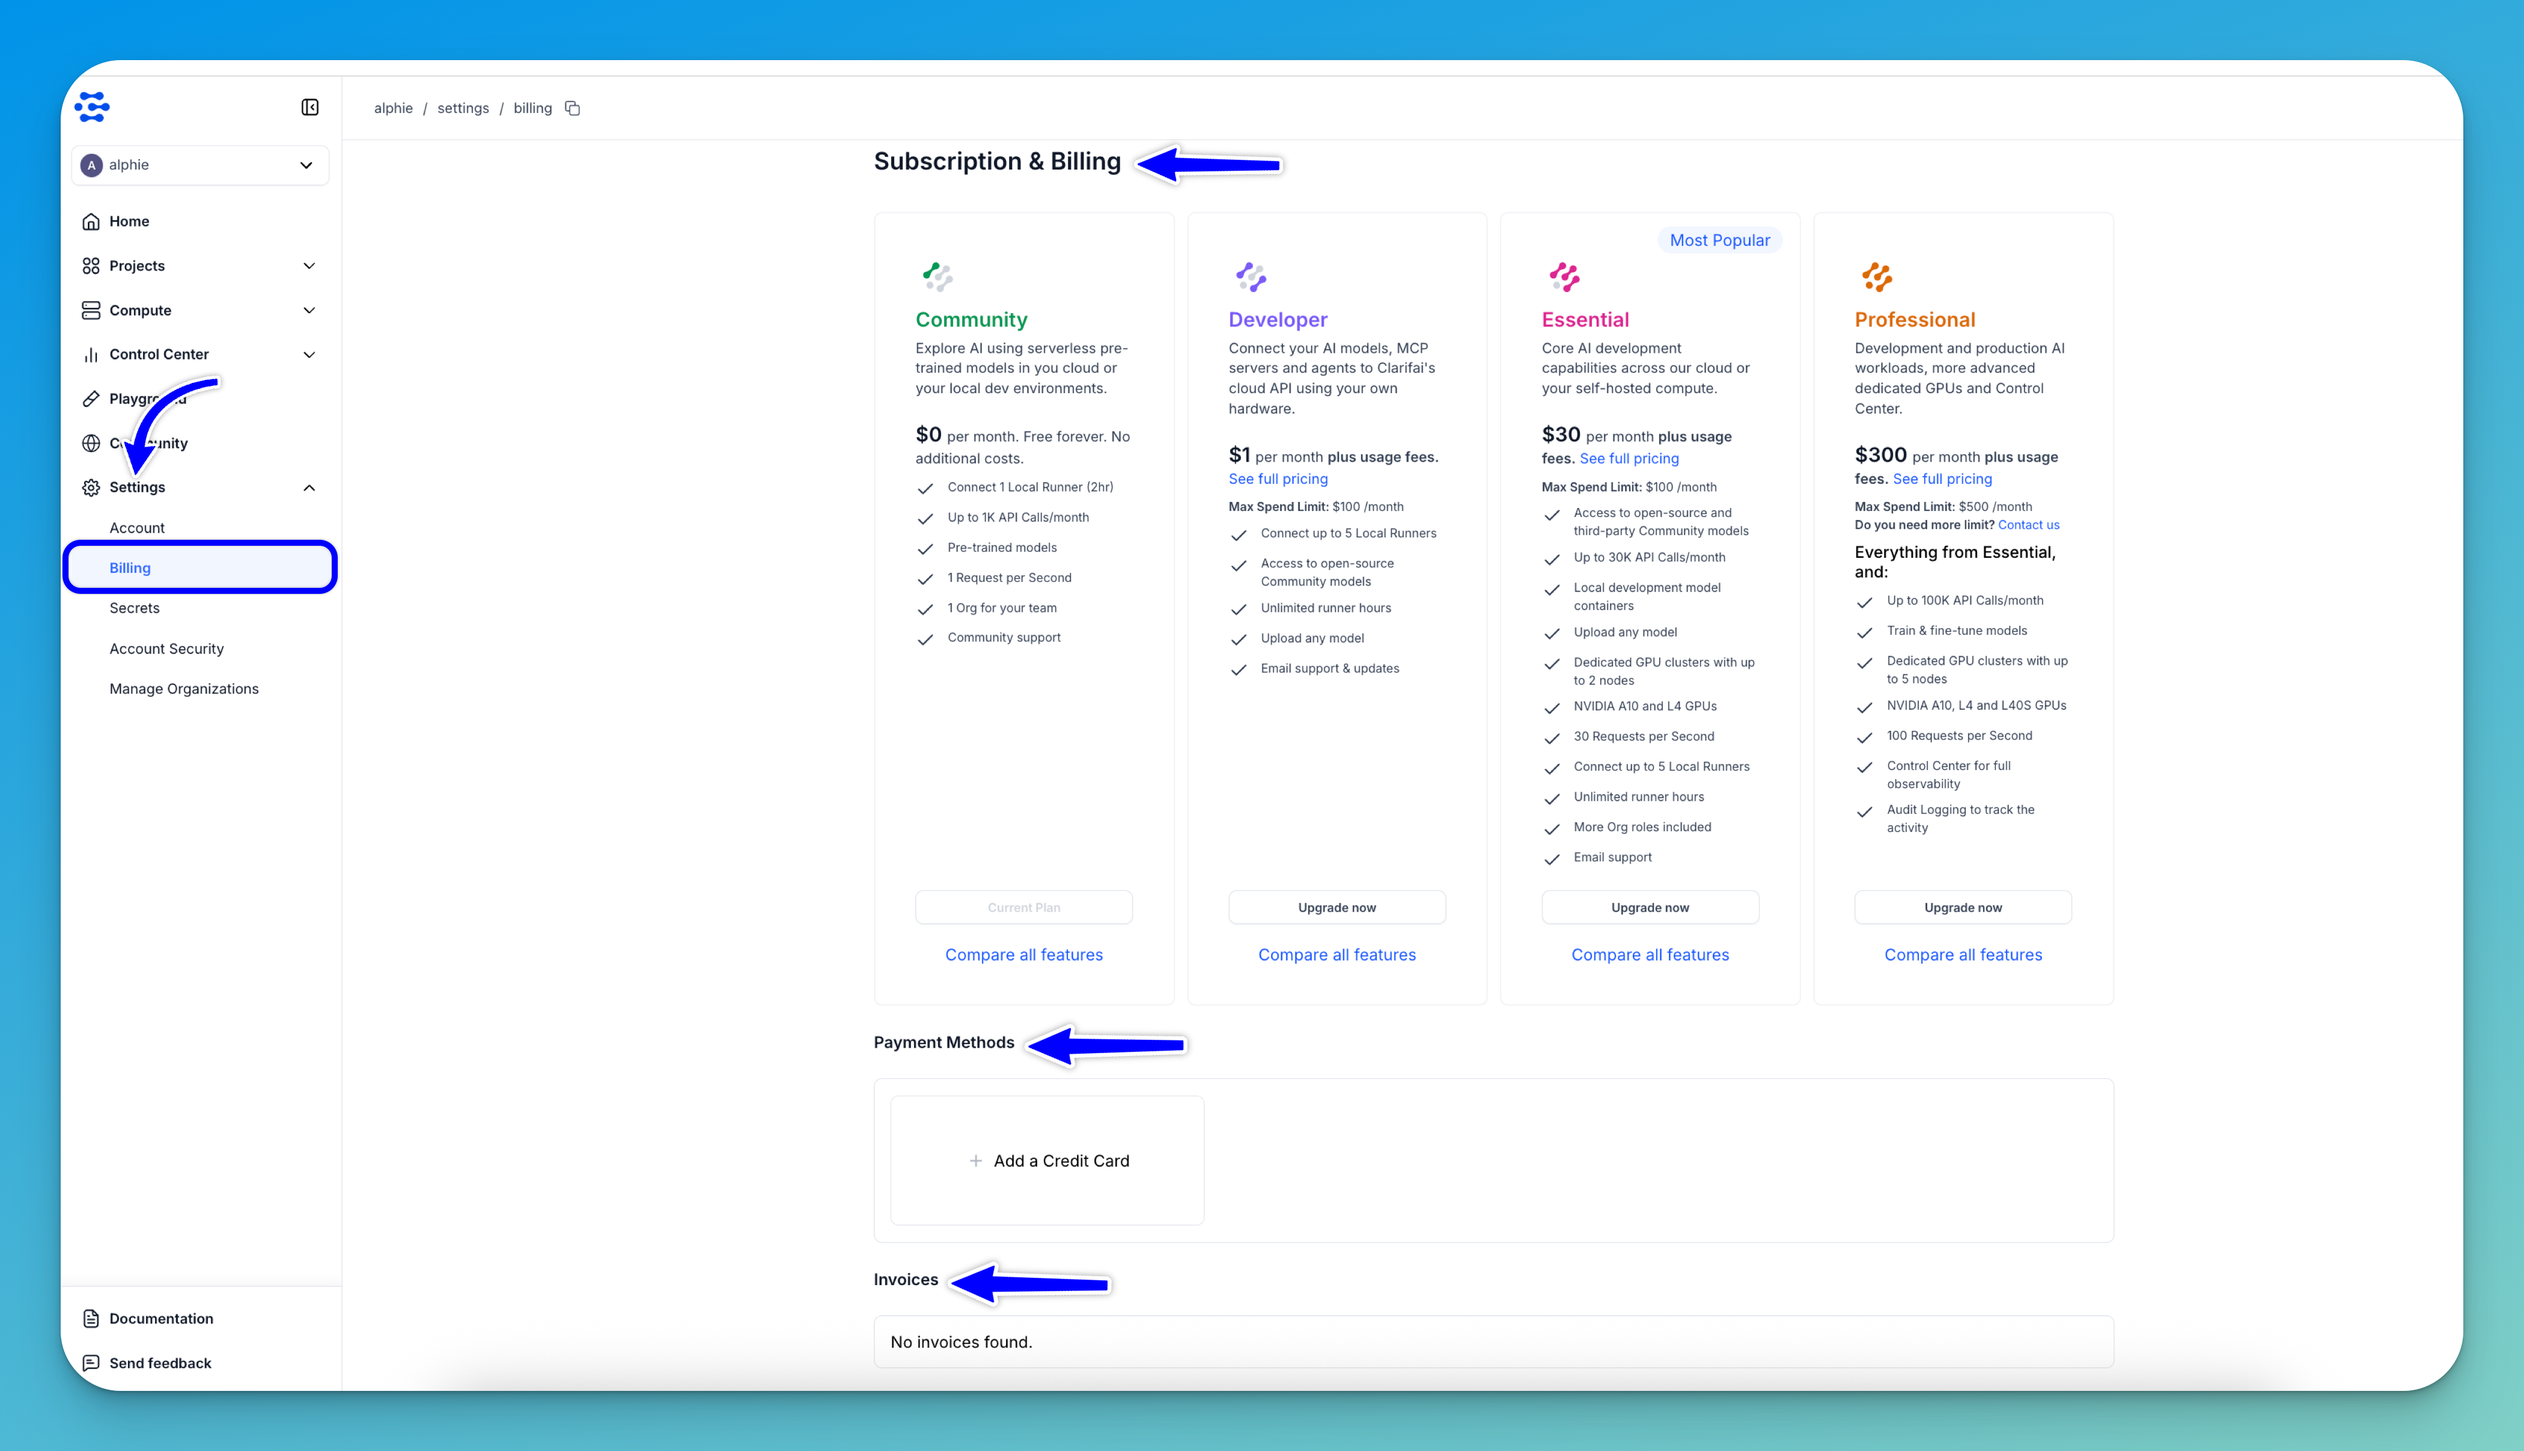
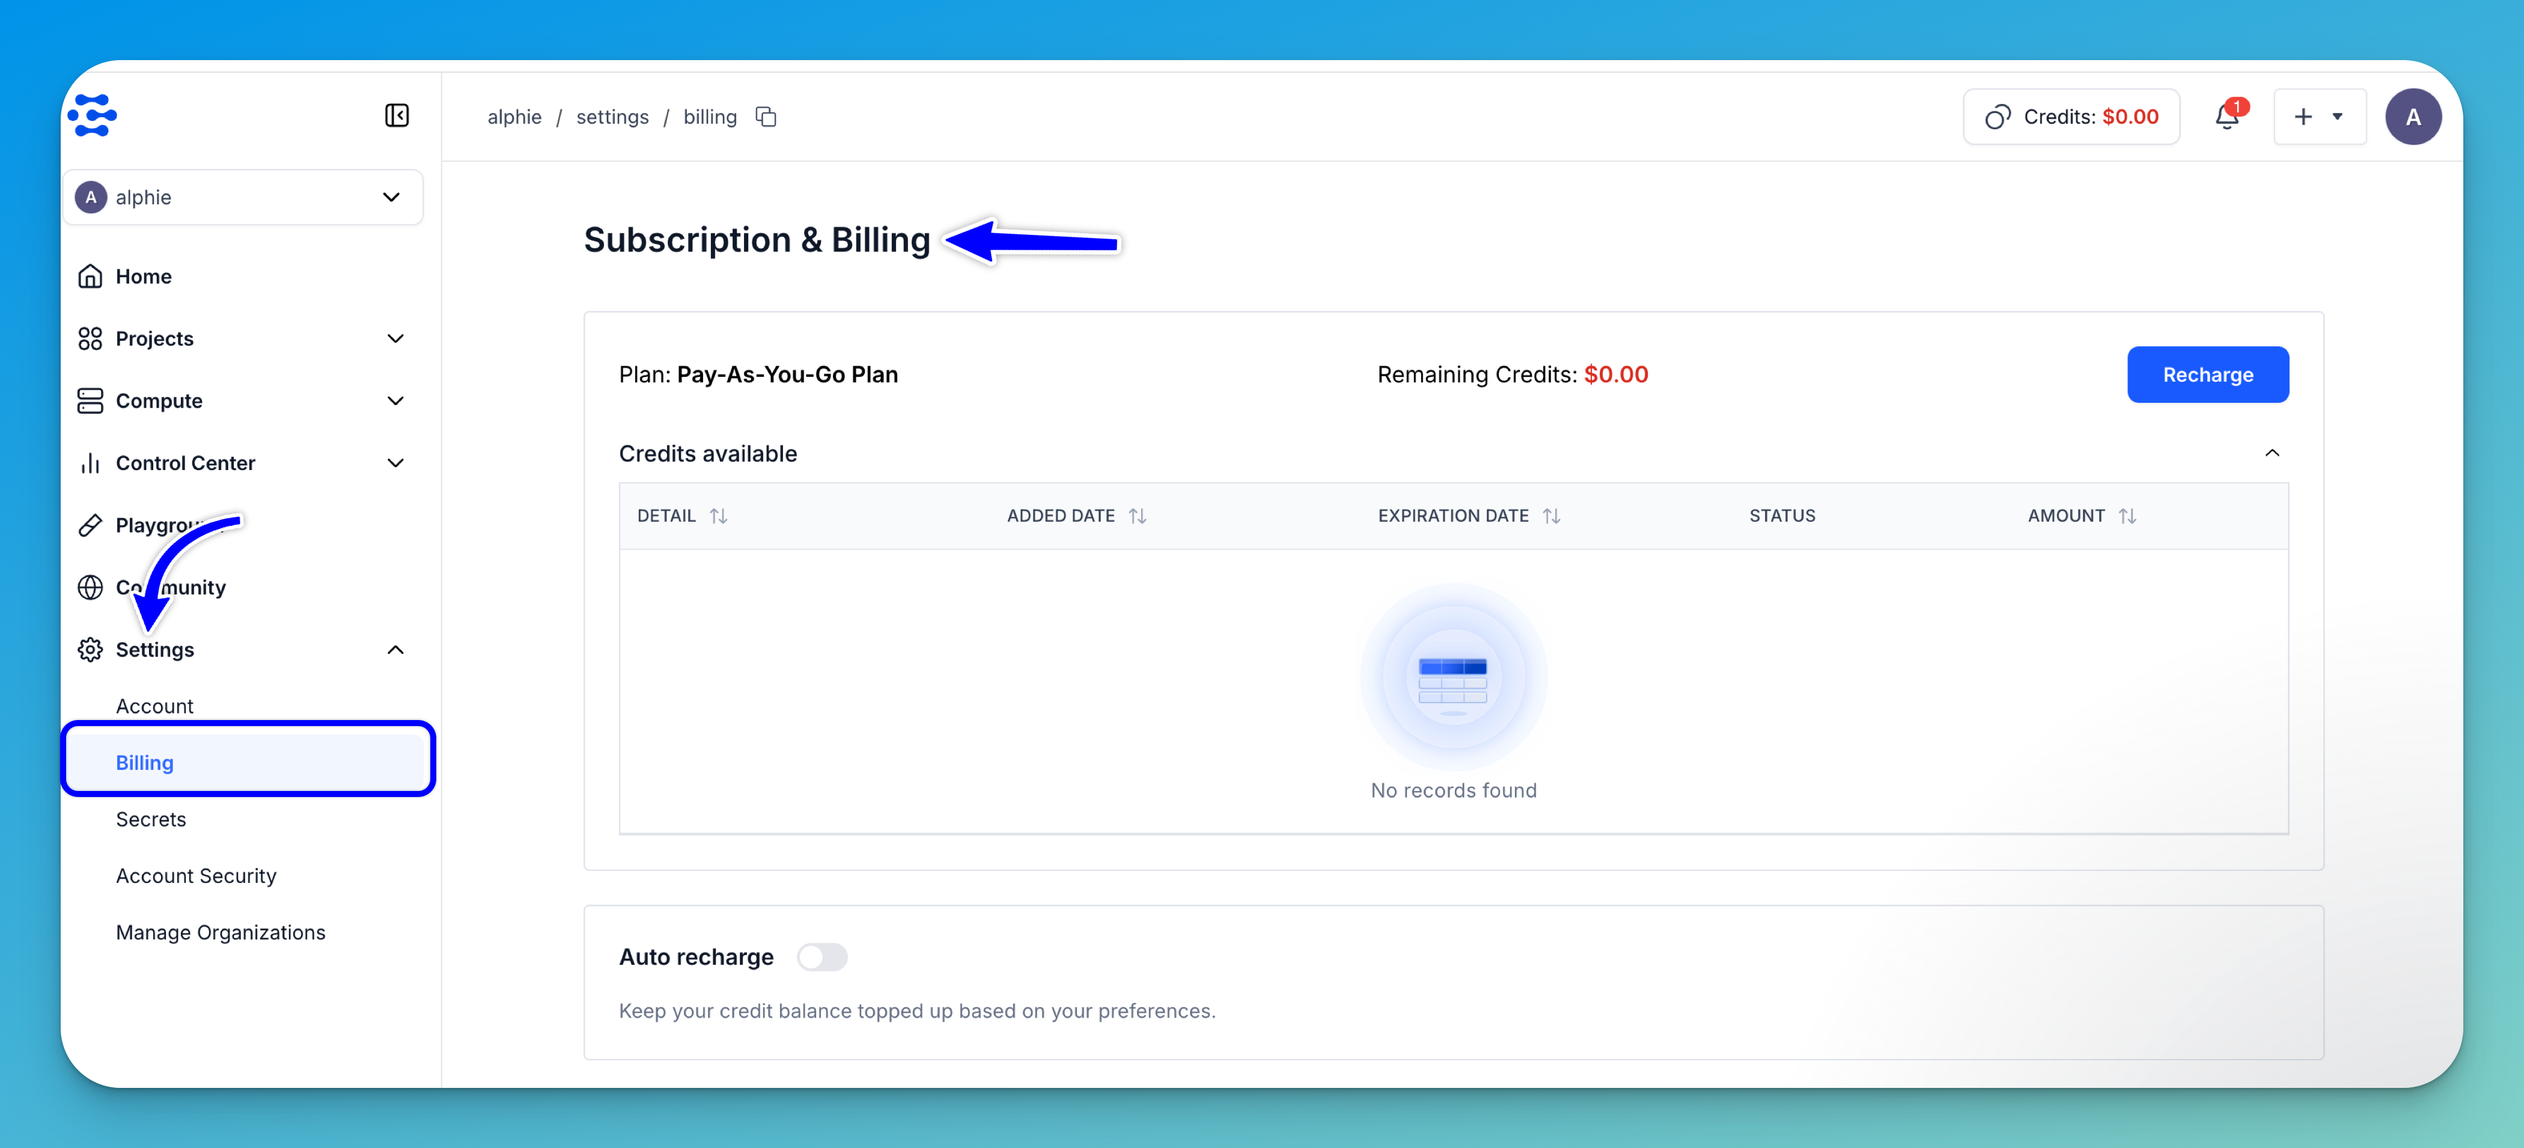
updated payment pages

diff --git a/docs/control/account-billing.md b/docs/control/account-billing.md
@@ -66,18 +66,89 @@ To permanently remove your account, click **Delete Account**. This action is irr
 
 ## Billing
 
-The **Subscription & Billing** page provides a centralized place to view and manage your plan, payment methods, and invoices.
+The **Subscription & Billing** page provides a centralized place to view and manage your credits, plan, payment methods, and invoices.
 
 To access it, [log in](https://clarifai.com/login) to the Clarifai platform. Then, in the collapsible left sidebar, select **Settings** and choose **Billing** from the dropdown list.
 
 ![ ](/img/new-docs/billing_1.png)
 
-On this page, you will see details of your current subscription plan along with options to upgrade or switch to other plans. Each plan card includes a brief summary of the tier — such as monthly pricing, spending limits, and links to additional information.
+### Transition to New Plan
 
-> **Note:** The monthly spending limits are $100 for Developer and Essential plans, and $500 for the Professional plan. You can [contact us](https://www.clarifai.com/explore/contact-us) if you require higher limits
+We’ve simplified Clarifai’s pricing by introducing a single Pay-As-You-Go plan with no minimum monthly commitments and far fewer feature gates. Just add credits, build, and go.
+
+All new users are automatically onboarded to this plan. Existing users can switch by clicking the **Review the new plan** button in the banner displayed on the page.
+
+In the window that appears, click **Change Plan** to complete the transition.
+
+![ ](/img/new-docs/billing_2.png)
+
+After switching, click the notification bar and select **Claim credits** to verify your phone number and receive a one-time, free $5 credits, which can be used to try anything from serverless model access to dedicated deployments.
+
+> **Note:**  The $5 welcome bonus has a 30-day expiration period.
+
+![ ](/img/new-docs/billing_3.png)
+
+> **Note:** Each user is eligible for up to two welcome bonuses — one for a personal account and another for an organization account that the user can create with their peers.
+
+![ ](/img/new-docs/billing_7.png)
+
+### Recharge Your Account
+
+After transitioning to the new plan, you can view your current plan and the details of your remaining credits at the top of the page.
+
+To recharge your account, click the **Recharge** button. 
+
+If your phone number has not yet been verified, a dialog will prompt you to enter your number and receive a verification code via SMS.
+
+![ ](/img/new-docs/billing_4.png)
+
+> **Note:** The same phone number can be verified for up to three different Clarifai accounts, regardless of whether the accounts are personal or organizational. However, only 1 personal and 1 Org account is eligible for the $5 bonus.
+
+After successful verification, you can proceed to recharge your account credits using your card.
+
+![ ](/img/new-docs/billing_5.png)
+
+:::info Auto recharge
+
+> To enable automatic recharging, turn on the **Auto recharge** button. A dialog will appear where you can set a balance threshold — for example, when credits drop to $5, automatically recharge up to $20.
+
+> ![ ](/img/new-docs/billing_6.png)
+
+:::
+
+### Change Your Plan
+
+As mentioned previously, we offer a Pay-As-You-Go plan that allows you to pay only for what you use. It offers the following features:
+
+- Run models directly or via dedicated compute instance
+- Clarifai Reasoning Engine — Accelerate Agentic AI workloads and large reasoning models
+- Full platform access
+- Promotional free access to [Local Runners](https://docs.clarifai.com/compute/local-runners/)
+- Up to 100 requests per second
+
+> **Note:** The Pay-As-You-Go plan has a maximum monthly spend limit of $100. Contact us to request a higher limit.
+
+For organizations operating at scale or with specialized requirements, we also offer an Enterprise plan. It offers the following features:
+
+- Access to top GPUs
+- Clarifai’s SaaS or private control plane
+- Optional air-gapped deployments and private data planes
+- Multi-organizations, teams management and [audit logging](https://docs.clarifai.com/control/control-center/teams-logs)
+- 24/7 dedicated support
+
+To upgrade to the Enterprise plan, click the **Talk to our AI Experts** button. You’ll be redirected to a page where you can schedule a meeting with our AI team to discuss your specific needs.
+
+![ ](/img/new-docs/billing_8.png)
+
+### Add a Payment Method
 
 In the **Payment Methods** section, you can add a new payment option by clicking **Add a Credit Card**. A pop-up window will appear, allowing you to securely enter your card details.
 
-> **Note:** We have a new credit card pre-authorization process. A temporary charge of $50 for Developer, $100 for Essential, and $500 for Professional plans is applied to verify card validity and available funds. The amount is automatically refunded within seven days
+> **Note:** If you haven’t verified your phone number yet, you’ll be prompted to do so.
+
+![ ](/img/new-docs/billing_9.png)
+
+### Invoices
 
 The **Invoices** section provides a complete history of your billing activity, displaying past transactions and downloadable statements for your records.
+

diff --git a/docs/control/clarifai-organizations/members-teams.md b/docs/control/clarifai-organizations/members-teams.md
@@ -30,6 +30,8 @@ To add a new team member to your organization, you need to send them an invitati
 
 In the dialog box that appears, enter the invitee’s email address and select a role you wish to assign to them, [as described below](#roles-for-members).
 
+> **Note:** Role-based access control is available only on the Enterprise [plan](https://www.clarifai.com/pricing). Pay-As-You-Go users can invite members with Admin roles only.
+
 ![Invite member dialog box](/img/clarifai_orgs/invite_member_dialog_box.png)
 
 After providing the details, click the **Confirm** button. 
@@ -70,13 +72,15 @@ Once invitees have accepted your invitation, their details will appear in the **
 
 :::warning multi-org membership
 
-We offer a multi-org membership functionality. Users can create, join, and engage with multiple organizations. A user’s membership is not limited to only one organization at any given time. 
+Multi-organization membership is available exclusively on the Enterprise plan, allowing users to create, join, and participate in multiple organizations simultaneously.
 
 :::
 
 ## Organization Teams
 
 Teams allow you to bring different members of your organization together to accomplish specific tasks. For example, you can aggregate users with the same access privileges to certain apps together in a single team.
+
+> **Note:** The teams functionality is available only to users on the Enterprise plan. 
 
 ### How to Add Teams
 

diff --git a/docs/compute/inference/clarifai/api.md b/docs/compute/inference/clarifai/api.md
@@ -113,7 +113,7 @@ To use our dedicated Compute Orchestration capabilities, ensure your model is [d
 
 :::info
 
-For dedicated deployments owned by an organization, alongside the `deployment_id`, also provide the organization ID as the `Model`'s `deployment_user_id`.
+For dedicated deployments that belong to a different user or organization, alongside the `deployment_id`, also provide the user ID or the organization ID as the `Model`'s `deployment_user_id`.
 
 :::
 
@@ -121,8 +121,8 @@ For dedicated deployments owned by an organization, alongside the `deployment_id
 model = Model(
     url="MODEL_URL_HERE",  
     deployment_id="DEPLOYMENT_ID_HERE",
-    # if you are targeting a specific deployment owned by an organization:
-    # deployment_user_id="ORGANIZATION_ID_HERE", 
+    # For a deployment owned by a different user or organization:
+    # deployment_user_id="USER_ID or ORGANIZATION_ID_HERE", 
     # Or, set cluster and nodepool 
     # compute_cluster_id = "COMPUTE_CLUSTER_ID_HERE",
     # nodepool_id = "NODEPOOL_ID_HERE"

diff --git a/docs/compute/toolkits/ollama.md b/docs/compute/toolkits/ollama.md
@@ -212,7 +212,7 @@ If the necessary context configurations aren’t detected, the CLI will guide yo
 
 This setup ensures all required components — such as compute clusters, nodepools, and deployments — are properly included in your configuration context, which are described [here](README.mdx#step-2-create-a-context-optional). Simply review each prompt and confirm to proceed.
 
-> **Note**: Use the `--verbose` option to show detailed logs from the Ollama server, which is helpful for debugging: `clarifai model local-runner --verbose`.
+> **Note**: Use the `--suppress-toolkit-logs` option to show detailed logs from the Ollama server, which is helpful for debugging: `clarifai model local-runner --suppress-toolkit-logs`.
 
 <details>
   <summary>Example Output</summary>

diff --git a/docs/compute/deployments/cloud-instances.md b/docs/compute/deployments/cloud-instances.md
@@ -10,9 +10,11 @@ sidebar_position: 5
 
 We offer a range of instance types designed to handle a variety of machine learning workloads. These cloud instances vary in their CPU, RAM (Random Access Memory), and GPU configurations, which allow you to orchestrate the right balance of performance and cost for your use case.
 
-:::info pricing
+:::info 
 
-To learn more about pricing for each instance type, see the [pricing page](https://www.clarifai.com/pricing).
+- See the [pricing page](https://www.clarifai.com/pricing) to learn more about pricing for each instance type.
+
+- [Contact us](https://www.clarifai.com/explore/contact-us) to access higher-tier GPUs that are not automatically provisioned on demand by the platform. 
 
 :::
 

diff --git a/docs/getting-started/playground.md b/docs/getting-started/playground.md
@@ -23,7 +23,7 @@ You can quickly test performance, experiment with real inputs, and explore Clari
  
 ## Step 1: Sign Up or Log In 
 
-Start by [logging in to](https://clarifai.com/login) your existing Clarifai account, or [sign up](https://clarifai.com/signup) for a new one to unlock access to the platform’s powerful AI capabilities. New users receive free operations to help kickstart their exploration.
+Start by [logging in to](https://clarifai.com/login) your existing Clarifai account, or [sign up](https://clarifai.com/signup) for a new one to unlock access to the platform’s powerful AI capabilities. New users receive a welcome bonus to kickstart their exploration.
 
 ## Step 2: Get a Model
 

diff --git a/docs/getting-started/quickstart.md b/docs/getting-started/quickstart.md
@@ -30,7 +30,7 @@ import OutputExample from "!!raw-loader!../../code_snippets/new-docs/assorted/ou
 
 ## Step 1: Sign Up or Log In 
 
-Start by [logging in to](https://clarifai.com/login) your existing Clarifai account, or [sign up](https://clarifai.com/signup) for a new one to unlock access to the platform’s powerful AI capabilities. New users receive free operations to help kickstart their exploration.
+Start by [logging in to](https://clarifai.com/login) your existing Clarifai account, or [sign up](https://clarifai.com/signup) for a new one to unlock access to the platform’s powerful AI capabilities. New users receive a welcome bonus to kickstart their exploration.
 
 ## Step 2: Get a Model
 

diff --git a/docs/control/control-center/overview.md b/docs/control/control-center/overview.md
@@ -29,12 +29,6 @@ It tells you:
 - The total costs of training your models
 - The total number of model types you’ve used
 
-:::info upgrade your plan
-
-You can still use the Control Center to track your metrics for a specified date range even if you are a free user. Consider upgrading to the paid plan to unlock extra platform capabilities and keep tracking them here. 
-
-:::
-
 ## Smart Insights
 
 Smart Insights at the top of the page allows you to uncover usage insights through a conversational interface. It enables you to interact with your data naturally — by simply asking questions in plain language — rather than navigating multiple reports or charts.

diff --git a/docs/getting-started/upload-model.md b/docs/getting-started/upload-model.md
@@ -14,10 +14,9 @@ Let’s walk through how to build and upload a simple custom model.
 
 <!--You can test the already uploaded model [here](https://clarifai.com/alfrick/docs-demos/models/my-first-model).-->
 
-:::note
+:::note tip
 
-- To learn more about how to upload different types of models, check out [this comprehensive guide](https://docs.clarifai.com/compute/models/upload/). 
-- Uploading models to the Clarifai platform requires a [paid plan](https://www.clarifai.com/pricing).
+To learn more about how to upload different types of models, check out [this comprehensive guide](https://docs.clarifai.com/compute/models/upload/). 
 
 :::
 

diff --git a/docs/getting-started/first-deployment.md b/docs/getting-started/first-deployment.md
@@ -12,11 +12,6 @@ Clarifai provides an intuitive interface that makes it easy to provision compute
 
 [Deployment](https://docs.clarifai.com/compute/deployments/deploy-model) allows you to configure and activate the infrastructure needed to serve model predictions. With just a few simple steps, you can deploy a trained model and start generating predictions.
 
-:::note
-
-Cloud model deployment via Clarifai requires a [paid plan](https://www.clarifai.com/pricing). You can try local deployment with [Local Runners](https://docs.clarifai.com/compute/local-runners) for free.
-
-:::
 
 ## Step 1: Sign Up or Log In 
 

diff --git a/docs/control/control-center/teams-logs.md b/docs/control/control-center/teams-logs.md
@@ -20,7 +20,7 @@ It provides the ability to assess user actions and resource changes, identify po
 
 :::info
 
-This audit logging feature is currently only available to users on our Professional and Enterprise subscription [plans](https://www.clarifai.com/pricing). So, the tab is hidden for users who do not have audit logging access.
+This audit logging feature is currently only available to users on our Enterprise [subscription plan](https://www.clarifai.com/pricing). 
 
 :::
 

diff --git a/docs/getting-started/set-up-compute.md b/docs/getting-started/set-up-compute.md
@@ -10,11 +10,6 @@ sidebar_position: 4
 
 Clarifai makes it easy to provision and manage your own [computing infrastructure](https://docs.clarifai.com/compute/overview). With just a few clicks, you can get up and running, and deploy your models for inference. 
 
-:::note
-
-Setting up a cloud compute infrastructure via Clarifai requires a [paid plan](https://www.clarifai.com/pricing).
-
-:::
 
 ## Step 1: Sign Up or Log In 
 
